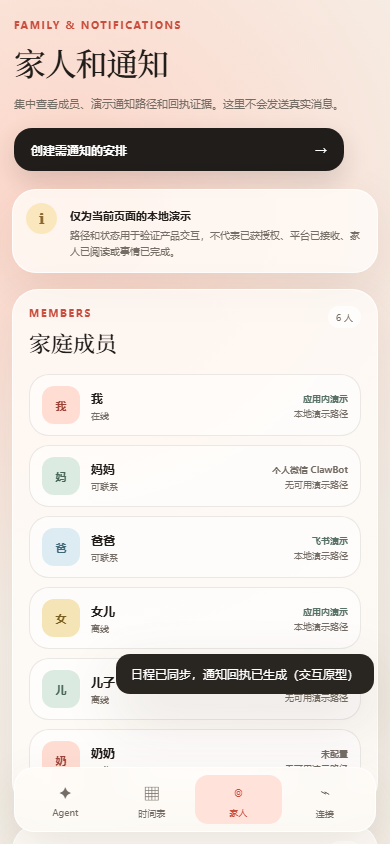
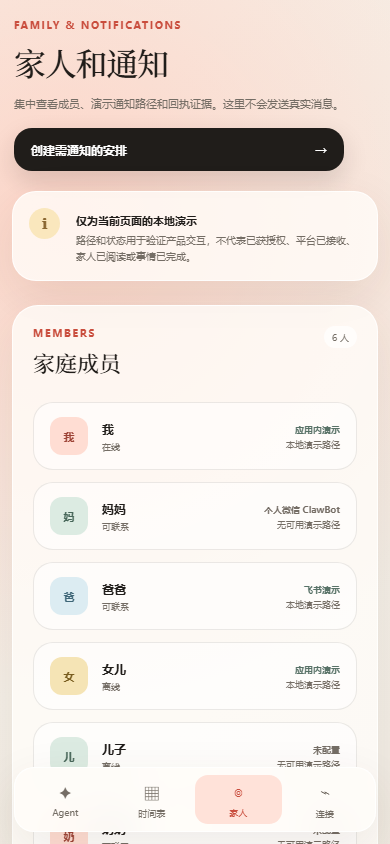
Increase page container breathing room

diff --git a/app/styles.css b/app/styles.css
@@ -13,6 +13,10 @@
   --shadow-raised: 0 22px 58px rgba(80, 57, 38, 0.15);
   --radius-lg: 26px;
   --radius-md: 18px;
+  --space-sm: 12px;
+  --space-md: 16px;
+  --space-lg: 24px;
+  --space-xl: 32px;
   --ease: cubic-bezier(0.22, 1, 0.36, 1);
 }
 
@@ -114,9 +118,9 @@ button { color: inherit; }
 
 .app-shell {
   display: grid;
-  grid-template-columns: 224px minmax(520px, 1fr) 300px;
-  gap: 26px;
-  width: min(1460px, calc(100% - 48px));
+  grid-template-columns: 224px minmax(640px, 1fr) 288px;
+  gap: var(--space-lg);
+  width: min(1600px, calc(100% - 48px));
   min-height: 100vh;
   margin: 0 auto;
   padding: 24px 0;
@@ -271,18 +275,19 @@ button { color: inherit; }
 .detail-view { animation: enter 220ms var(--ease) both; }
 .page-header { display: flex; justify-content: space-between; gap: 24px; align-items: flex-end; padding: 0 6px; }
 .page-header h1 { margin: 0; font-family: Georgia, "Songti SC", serif; font-size: clamp(31px, 4vw, 48px); font-weight: 500; letter-spacing: -0.04em; text-wrap: balance; }
+.page-header h1[tabindex="-1"]:focus { outline: none; }
 .page-header p:last-child { max-width: 620px; margin: 10px 0 0; color: var(--muted); font-size: 13px; line-height: 1.65; text-wrap: pretty; }
 .primary-page-action { display: flex; flex: 0 0 auto; align-items: center; gap: 12px; min-height: 43px; padding: 0 17px; color: white; border: 0; border-radius: 18px; background: var(--ink); box-shadow: 0 10px 26px rgba(32,29,26,.14); cursor: pointer; font-size: 12px; font-weight: 750; transition: transform 180ms ease, background 180ms ease; }
 .primary-page-action:hover { transform: translateY(-2px); background: var(--accent-dark); }
 .primary-page-action:active { transform: scale(.96); }
-.summary-grid { display: grid; grid-template-columns: repeat(3, minmax(0, 1fr)); gap: 12px; margin: 28px 0 16px; }
-.summary-card { display: grid; grid-template-columns: minmax(0, 1fr) auto; gap: 6px 14px; align-items: center; padding: 18px 20px; border-radius: 24px; }
+.summary-grid { display: grid; grid-template-columns: repeat(3, minmax(0, 1fr)); gap: var(--space-md); margin: var(--space-xl) 0 var(--space-lg); }
+.summary-card { display: grid; grid-template-columns: minmax(0, 1fr) auto; gap: 8px 16px; align-items: center; padding: 20px 24px; border-radius: 24px; }
 .summary-card > span { color: var(--muted); font-size: 11px; font-weight: 700; }
 .summary-card strong { grid-row: 1 / 3; grid-column: 2; color: var(--accent-dark); font-family: Georgia, serif; font-size: 30px; font-variant-numeric: tabular-nums; font-weight: 500; }
 .summary-card small { color: var(--muted); font-size: 9px; }
 .schedule-panel, .people-panel, .receipts-panel { border-radius: 28px; }
-.schedule-panel { padding: 22px; }
-.filter-bar { display: grid; grid-template-columns: minmax(190px, .6fr) minmax(0, 1.4fr); gap: 20px; align-items: end; padding-bottom: 17px; border-bottom: 1px solid var(--line); }
+.schedule-panel { padding: 28px; }
+.filter-bar { display: grid; grid-template-columns: minmax(190px, .6fr) minmax(0, 1.4fr); gap: var(--space-lg); align-items: end; padding-bottom: var(--space-lg); border-bottom: 1px solid var(--line); }
 .filter-bar label, .member-filter { display: grid; gap: 8px; }
 .filter-bar label > span, .member-filter > span { color: var(--muted); font-size: 9px; font-weight: 800; letter-spacing: .08em; text-transform: uppercase; }
 .filter-bar select { width: 100%; min-height: 42px; padding: 0 13px; color: var(--ink); border: 1px solid var(--line); border-radius: 16px; background: rgba(255,255,255,.78); transition: border-color 150ms ease, background-color 150ms ease; }
@@ -292,8 +297,8 @@ button { color: inherit; }
 .member-filter button:hover { border-color: rgba(90,123,106,.38); background: rgba(255,255,255,.88); }
 .member-filter button:active { transform: scale(.96); }
 .member-filter button[aria-pressed="true"] { color: white; border-color: var(--sage); background: var(--sage); }
-.schedule-event-list { display: grid; gap: 10px; margin-top: 18px; }
-.schedule-event { display: grid; grid-template-columns: 82px 52px minmax(0, 1fr) auto; gap: 15px; align-items: center; padding: 16px 18px; border: 1px solid var(--line); border-radius: 20px; background: rgba(255,255,255,.52); transition: border-color 150ms ease, background-color 150ms ease, box-shadow 180ms ease; }
+.schedule-event-list { display: grid; gap: var(--space-sm); margin-top: var(--space-lg); }
+.schedule-event { display: grid; grid-template-columns: 88px 56px minmax(0, 1fr) auto; gap: var(--space-md); align-items: center; min-height: 76px; padding: 18px 20px; border: 1px solid var(--line); border-radius: 20px; background: rgba(255,255,255,.52); transition: border-color 150ms ease, background-color 150ms ease, box-shadow 180ms ease; }
 .schedule-event:hover { border-color: rgba(90,123,106,.2); background: rgba(255,255,255,.82); box-shadow: 0 6px 8px rgba(80,57,38,.06); }
 .schedule-event .event-day { color: var(--muted); font-size: 10px; }
 .schedule-event time { color: var(--accent-dark); font-family: Georgia, serif; font-size: 17px; font-variant-numeric: tabular-nums; }
@@ -306,17 +311,17 @@ button { color: inherit; }
 .empty-state strong { display: block; color: var(--ink); font-size: 14px; }
 .empty-state p { margin: 7px 0 14px; font-size: 11px; }
 .empty-state button { color: var(--accent-dark); border: 0; background: transparent; cursor: pointer; font-size: 11px; font-weight: 750; }
-.demo-truth { display: flex; gap: 13px; align-items: center; margin: 26px 0 16px; padding: 16px 19px; border-radius: 24px; }
+.demo-truth { display: flex; gap: var(--space-md); align-items: center; margin: var(--space-xl) 0 var(--space-lg); padding: 20px 24px; border-radius: 24px; }
 .demo-truth > span { display: grid; flex: 0 0 auto; width: 31px; height: 31px; place-items: center; color: #8a6731; border-radius: 50%; background: #fae7bd; font-family: Georgia, serif; font-weight: 700; }
 .demo-truth strong { font-size: 11px; }
 .demo-truth p { margin: 4px 0 0; color: var(--muted); font-size: 10px; line-height: 1.55; }
-.people-layout { display: grid; grid-template-columns: minmax(290px, .85fr) minmax(380px, 1.15fr); gap: 16px; }
-.people-panel, .receipts-panel { padding: 22px; }
+.people-layout { display: grid; grid-template-columns: minmax(320px, .85fr) minmax(420px, 1.15fr); gap: var(--space-lg); }
+.people-panel, .receipts-panel { padding: 28px; }
 .people-panel > header, .receipts-panel > header { display: flex; justify-content: space-between; align-items: flex-start; }
 .people-panel h2, .receipts-panel h2 { margin: 0; font-family: Georgia, "Songti SC", serif; font-size: 22px; font-weight: 500; }
 .people-panel > header > span, .receipts-panel > header > span { padding: 5px 8px; color: var(--muted); border-radius: 999px; background: rgba(255,255,255,.68); font-size: 9px; }
-.people-member-list, .notification-receipt-list { display: grid; gap: 9px; margin-top: 16px; }
-.member-row { display: grid; grid-template-columns: 38px minmax(0, 1fr) auto; gap: 11px; align-items: center; padding: 11px 12px; border: 1px solid var(--line); border-radius: 20px; background: rgba(255,255,255,.5); transition: border-color 150ms ease, background-color 150ms ease, box-shadow 180ms ease; }
+.people-member-list, .notification-receipt-list { display: grid; gap: var(--space-sm); margin-top: var(--space-lg); }
+.member-row { display: grid; grid-template-columns: 40px minmax(0, 1fr) auto; gap: var(--space-sm); align-items: center; min-height: 64px; padding: 14px 16px; border: 1px solid var(--line); border-radius: 20px; background: rgba(255,255,255,.5); transition: border-color 150ms ease, background-color 150ms ease, box-shadow 180ms ease; }
 .member-row:hover { border-color: rgba(90,123,106,.2); background: rgba(255,255,255,.82); box-shadow: 0 6px 8px rgba(80,57,38,.06); }
 .member-row .person-avatar { width: 38px; height: 38px; }
 .member-row strong, .member-row small { display: block; }
@@ -332,7 +337,7 @@ button { color: inherit; }
 .receipt-legend .queued, .receipt-status.queued { background: #e7a744; }
 .receipt-legend .accepted, .receipt-status.accepted { background: #75a987; }
 .receipt-legend .failed, .receipt-status.failed { background: #cb6757; }
-.notification-receipt { display: grid; grid-template-columns: 9px minmax(0, 1fr) auto; gap: 10px; align-items: start; padding: 14px 15px; border: 1px solid var(--line); border-radius: 20px; background: rgba(255,255,255,.5); transition: border-color 150ms ease, background-color 150ms ease, box-shadow 180ms ease; }
+.notification-receipt { display: grid; grid-template-columns: 9px minmax(0, 1fr) auto; gap: var(--space-sm); align-items: start; min-height: 76px; padding: 17px 20px; border: 1px solid var(--line); border-radius: 20px; background: rgba(255,255,255,.5); transition: border-color 150ms ease, background-color 150ms ease, box-shadow 180ms ease; }
 .notification-receipt:hover { border-color: rgba(90,123,106,.2); background: rgba(255,255,255,.82); box-shadow: 0 6px 8px rgba(80,57,38,.06); }
 .receipt-status { width: 8px; height: 8px; margin-top: 4px; border-radius: 50%; }
 .notification-receipt strong, .notification-receipt small { display: block; }
@@ -402,7 +407,7 @@ button:focus-visible, input:focus-visible, textarea:focus-visible, select:focus-
 @keyframes dialog-in { from { opacity: 0; transform: translateY(12px) scale(.97); } to { opacity: 1; transform: none; } }
 
 @media (max-width: 1120px) {
-  .app-shell { grid-template-columns: 84px minmax(480px, 1fr) 280px; }
+  .app-shell { grid-template-columns: 84px minmax(0, 1fr) 264px; gap: 20px; }
   .identity-rail { align-items: center; padding-inline: 11px; }
   .brand > span:last-child, .profile > div:last-child, .nav-item > span:last-child, .rail-note { display: none; }
   .profile { margin: 36px 0 28px; }
@@ -410,9 +415,9 @@ button:focus-visible, input:focus-visible, textarea:focus-visible, select:focus-
   .people-layout { grid-template-columns: 1fr; }
 }
 
-@media (max-width: 860px) {
+@media (max-width: 960px) {
   .auth-gate { padding: 20px 14px; }
-  .app-shell { display: block; width: min(100% - 28px, 680px); padding: 16px 0 calc(108px + env(safe-area-inset-bottom)); }
+  .app-shell { display: block; width: min(calc(100% - 32px), 840px); padding: 16px 0 calc(108px + env(safe-area-inset-bottom)); }
   .identity-rail, .agenda-rail { display: none; }
   .workspace { min-height: calc(100vh - 124px); padding-top: 6px; padding-bottom: 150px; }
   #agent-view { min-height: calc(100vh - 124px); }
@@ -475,19 +480,19 @@ button:focus-visible, input:focus-visible, textarea:focus-visible, select:focus-
   .page-header h1 { font-size: 32px; }
   .page-header p:last-child { font-size: 11px; }
   .primary-page-action { width: 100%; justify-content: space-between; }
-  .summary-grid { grid-template-columns: 1fr; gap: 8px; margin-top: 18px; }
-  .summary-card { padding: 13px 15px; }
+  .summary-grid { grid-template-columns: 1fr; gap: 12px; margin-top: 20px; }
+  .summary-card { padding: 16px 18px; }
   .summary-card strong { font-size: 25px; }
-  .schedule-panel, .people-panel, .receipts-panel { padding: 16px; border-radius: 26px; }
+  .schedule-panel, .people-panel, .receipts-panel { padding: 20px; border-radius: 26px; }
   .filter-bar { grid-template-columns: 1fr; gap: 14px; }
   .member-filter > div { flex-wrap: nowrap; margin: 0 -2px; padding: 2px 2px 7px; overflow-x: auto; scrollbar-width: thin; }
   .member-filter button { flex: 0 0 auto; }
-  .schedule-event { grid-template-columns: 55px minmax(0, 1fr); gap: 8px 12px; padding: 13px; }
+  .schedule-event { grid-template-columns: 55px minmax(0, 1fr); gap: 8px 12px; min-height: 0; padding: 16px; }
   .schedule-event .event-day { grid-column: 1; }
   .schedule-event time { grid-column: 1; grid-row: 2; }
   .schedule-event .event-copy { grid-column: 2; grid-row: 1 / 3; }
   .schedule-event .event-members { grid-column: 2; }
-  .demo-truth { align-items: flex-start; margin-top: 18px; padding: 13px; }
+  .demo-truth { align-items: flex-start; margin-top: 20px; padding: 16px; }
   .people-layout { grid-template-columns: minmax(0, 1fr); }
   .notification-receipt { grid-template-columns: 9px minmax(0, 1fr); }
   .notification-receipt time { grid-column: 2; }

diff --git a/scripts/verify_app.py b/scripts/verify_app.py
@@ -70,6 +70,9 @@ require(CSS, "@media (max-width: 520px)", "mobile breakpoint")
 require(CSS, "@media (prefers-reduced-motion: reduce)", "reduced-motion support")
 require(CSS, "translateY(-4px)", "reference-inspired card lift")
 require(CSS, ".schedule-panel, .people-panel, .receipts-panel { border-radius: 28px; }", "rounded primary detail containers")
+require(CSS, "width: min(1600px, calc(100% - 48px));", "expanded desktop application shell")
+require(CSS, ".schedule-panel { padding: 28px; }", "expanded schedule container spacing")
+require(CSS, ".people-panel, .receipts-panel { padding: 28px; }", "expanded people container spacing")
 require(CSS, ".member-row:hover", "member container feedback")
 require(CSS, ".notification-receipt:hover", "receipt container feedback")
 require(OPENAPI, "/gateway/v1/installations/{installationId}/events:", "custom bot ingress endpoint")

diff --git a/docs/container-motion-materials.md b/docs/container-motion-materials.md
@@ -107,7 +107,8 @@ The container and motion system has no external image dependency.
 ## Responsive behavior
 
 - At `1120px`, the identity rail collapses to its icon-led form.
-- At `860px`, desktop side rails are removed, the composer and mobile navigation become fixed, and the main content receives bottom clearance.
+- At `960px`, desktop side rails are removed, the composer and mobile navigation become fixed, and the main content receives bottom clearance. The single-column shell can grow to `840px` so tablet layouts use the available width.
+- Primary detail containers use `28px` desktop/tablet padding and `20px` mobile padding. List rows use a minimum `64–76px` height to preserve a comfortable scan rhythm.
 - At `520px`, the entry shell becomes full-screen with no outer radius, integration cards become one column, and the connection dialog becomes a bottom sheet.
 - Container changes must be checked at `1440px` desktop and a true `390px` mobile viewport for overflow, overlap, clipped actions, and fixed-layer collisions.
 
